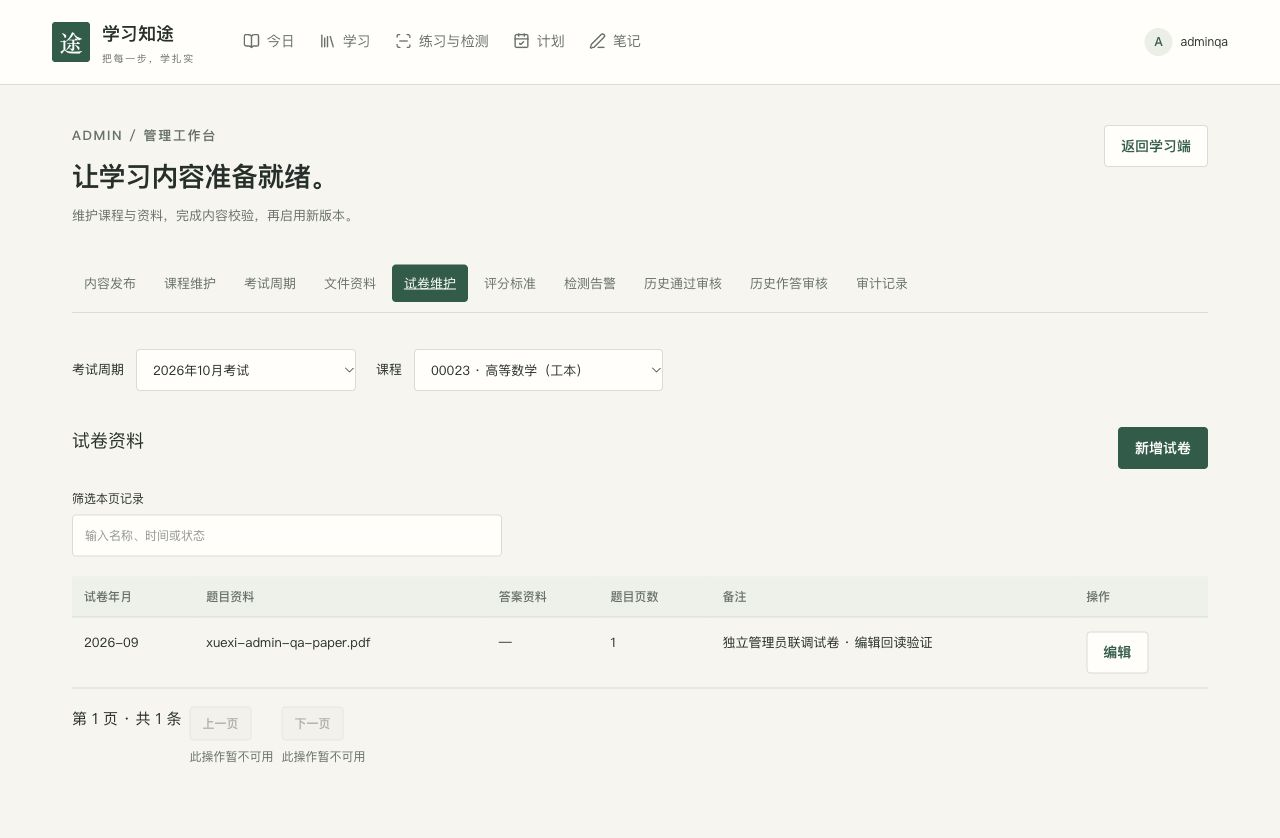
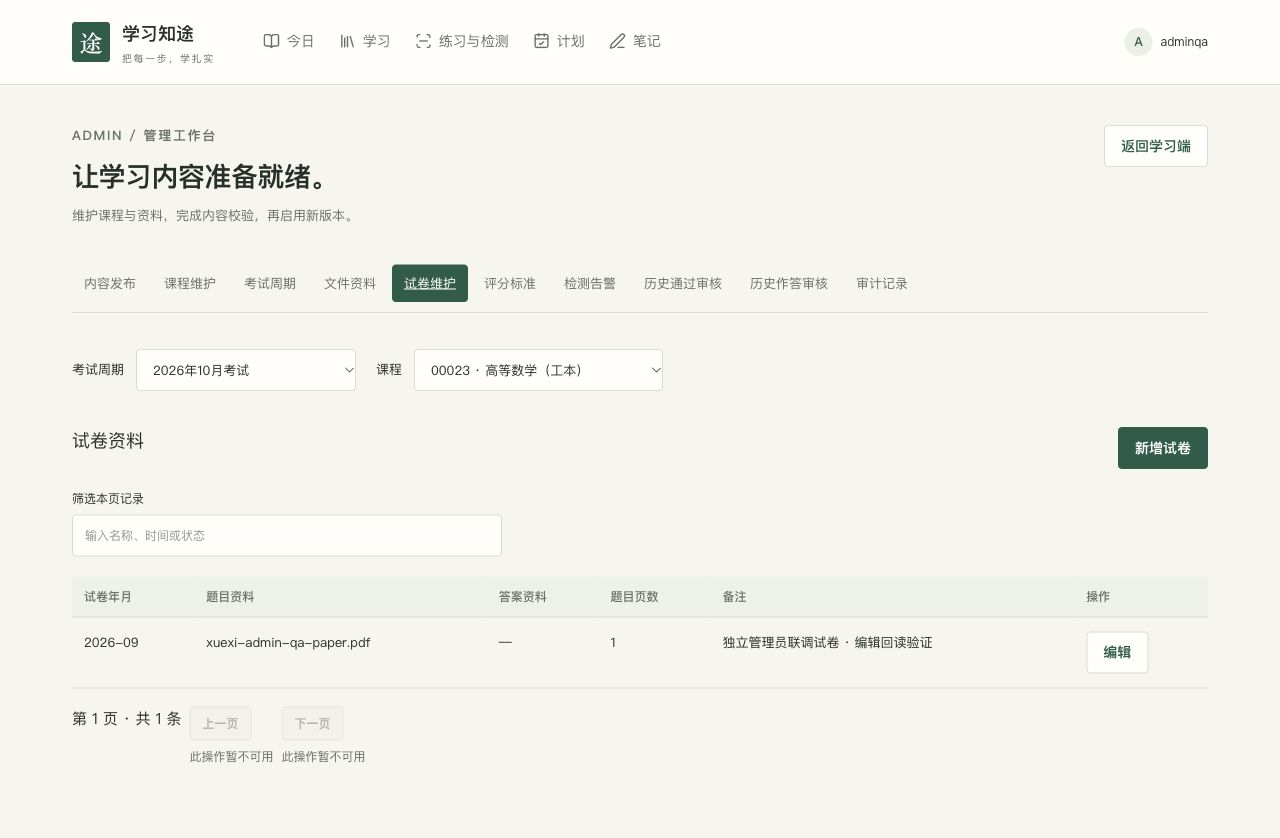
docs: record final administrator verification and remaining workspace blockers

Changed region(s): [[0.1875, 0.031, 0.5312, 0.0621], [0.0312, 0.031, 0.1562, 0.0931], [0.875, 0.031, 0.9688, 0.0621]]

diff --git a/docs/admin-workspace.md b/docs/admin-workspace.md
@@ -69,7 +69,7 @@
 - 普通 USER 直接访问 /admin 显示无权限；后端测试同时验证 ADMIN 接口与发布操作对 USER 返回 403。
 - 模板每行全部控件 top 一致、height=36；管理页桌面品牌/内容左边界均为 72px。390px 手机视口的整页 scrollWidth=390，宽表格仅在自己的容器滚动。
 
-自动检查：管理员及路由相关 28 项测试通过；前端稳定验证副本全量 243 项通过、类型检查与构建通过；后台单元测试 30 项通过、管理员发布 MySQL 测试 2 项通过、其他管理能力 MySQL 测试 13 项通过。OpenAPI 再生成一致性、管理表单契约提取一致性、修改文件 lint 均通过。
+自动检查：管理员、路由及计划日期相关最后一轮 48 项测试通过；前端稳定验证副本全量 243 项通过、类型检查与构建通过；后台单元测试 30 项通过、管理员发布 MySQL 测试 2 项通过、其他管理能力 MySQL 测试 13 项通过。OpenAPI 再生成一致性、管理表单契约提取一致性、修改文件 lint 均通过。
 
 ### 当前工作区的独立阻断项
 
@@ -77,7 +77,7 @@
 
 - 主路由已引用 PersonalPage / SettingsPage，但文件尚未存在，当前工作区整仓类型检查不能通过。
 - 新增 V11__personal_platform.sql 的 fitness user_id 与 app_user.id 外键字符集/排序规则不一致，空数据库迁移失败。管理员隔离回归使用新增该模块之前的 V1–V10 基线，加上本次管理员改动。
-- 全仓 lint 中另有既有浏览器脚本的 URL 全局声明问题；本次修改文件检查通过。
+- 全仓 lint 另有既有浏览器脚本的 URL 全局声明问题，以及新增 FitnessPage 的未使用图标和不规则空白，共 7 项；本次修改文件检查通过。
 
 这些是当前工作区新增模块的整仓阻断项，不能把管理员隔离验证等同于当前工作区的全量发布验收。原后端未被重启，也没有向原数据库发布测试内容。
 
@@ -99,3 +99,7 @@
 - [真实审计记录](admin-evidence/audit.jpg)
 - [手机管理页](admin-evidence/mobile.jpg)
 - [普通用户无权限](admin-evidence/user-forbidden.jpg)
+
+## 可回退记录
+
+本次主要前端实现提交为 `98ba25c`，后端提交为 `4893b87`。提交只包含管理员相关改动；工作区的其他未完成改动保持原样。初始备份保存在 `/private/tmp/xuexi-admin-backup`。测试预览为 `http://127.0.0.1:5188/admin`，使用独立测试后端，不代表生产部署。
